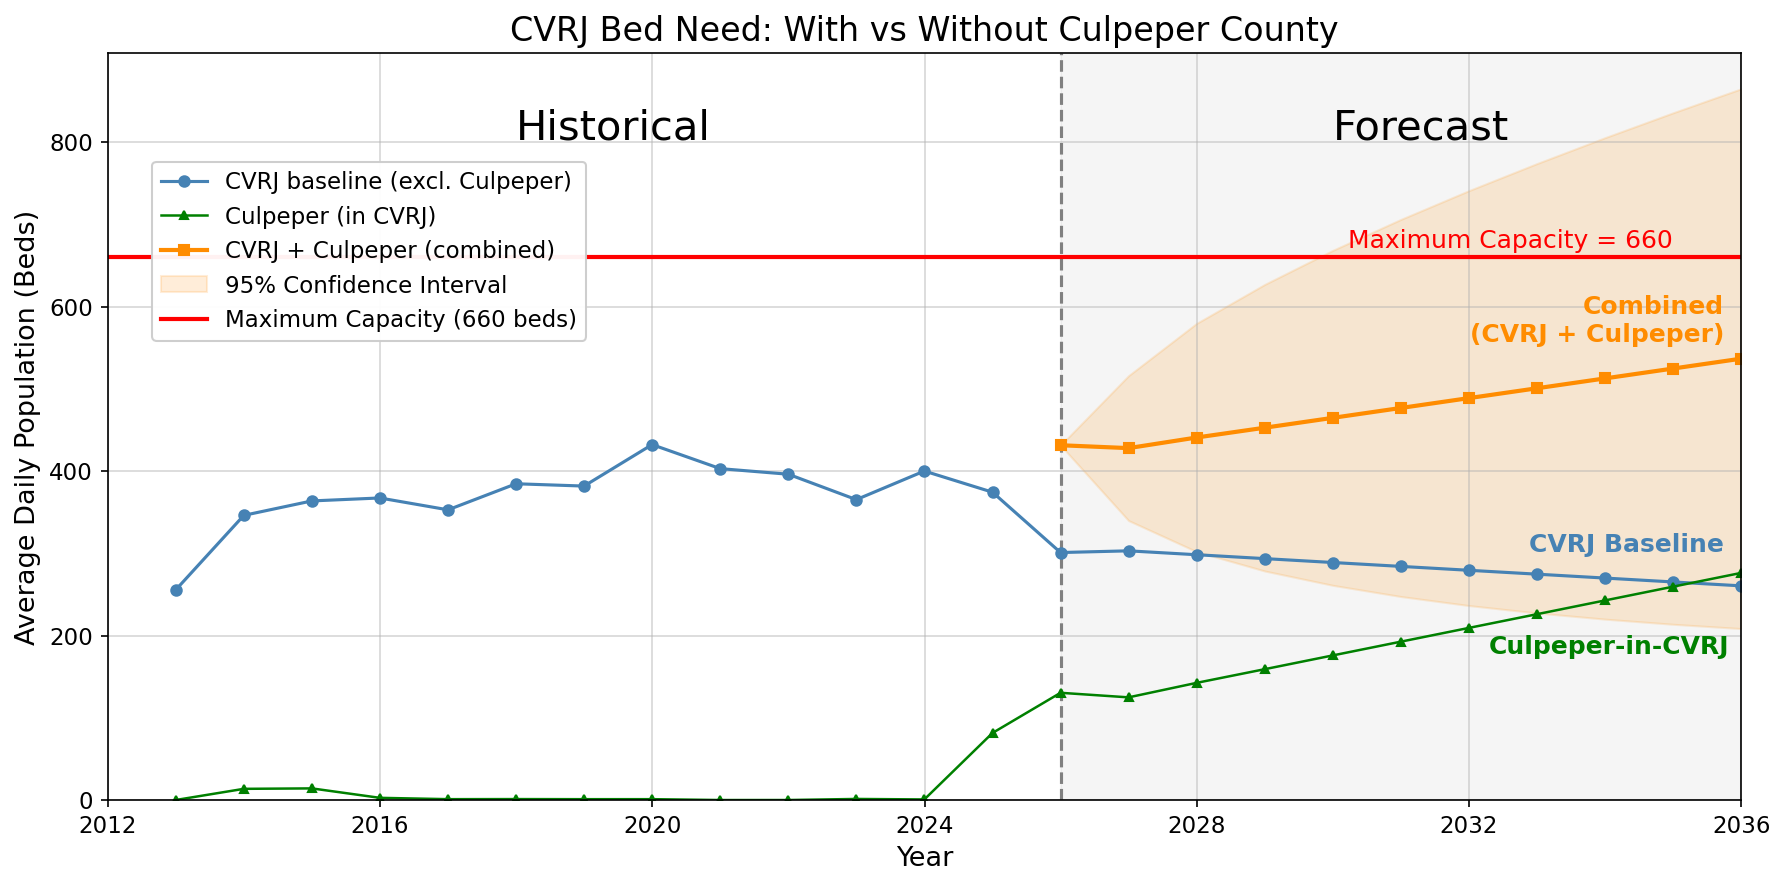
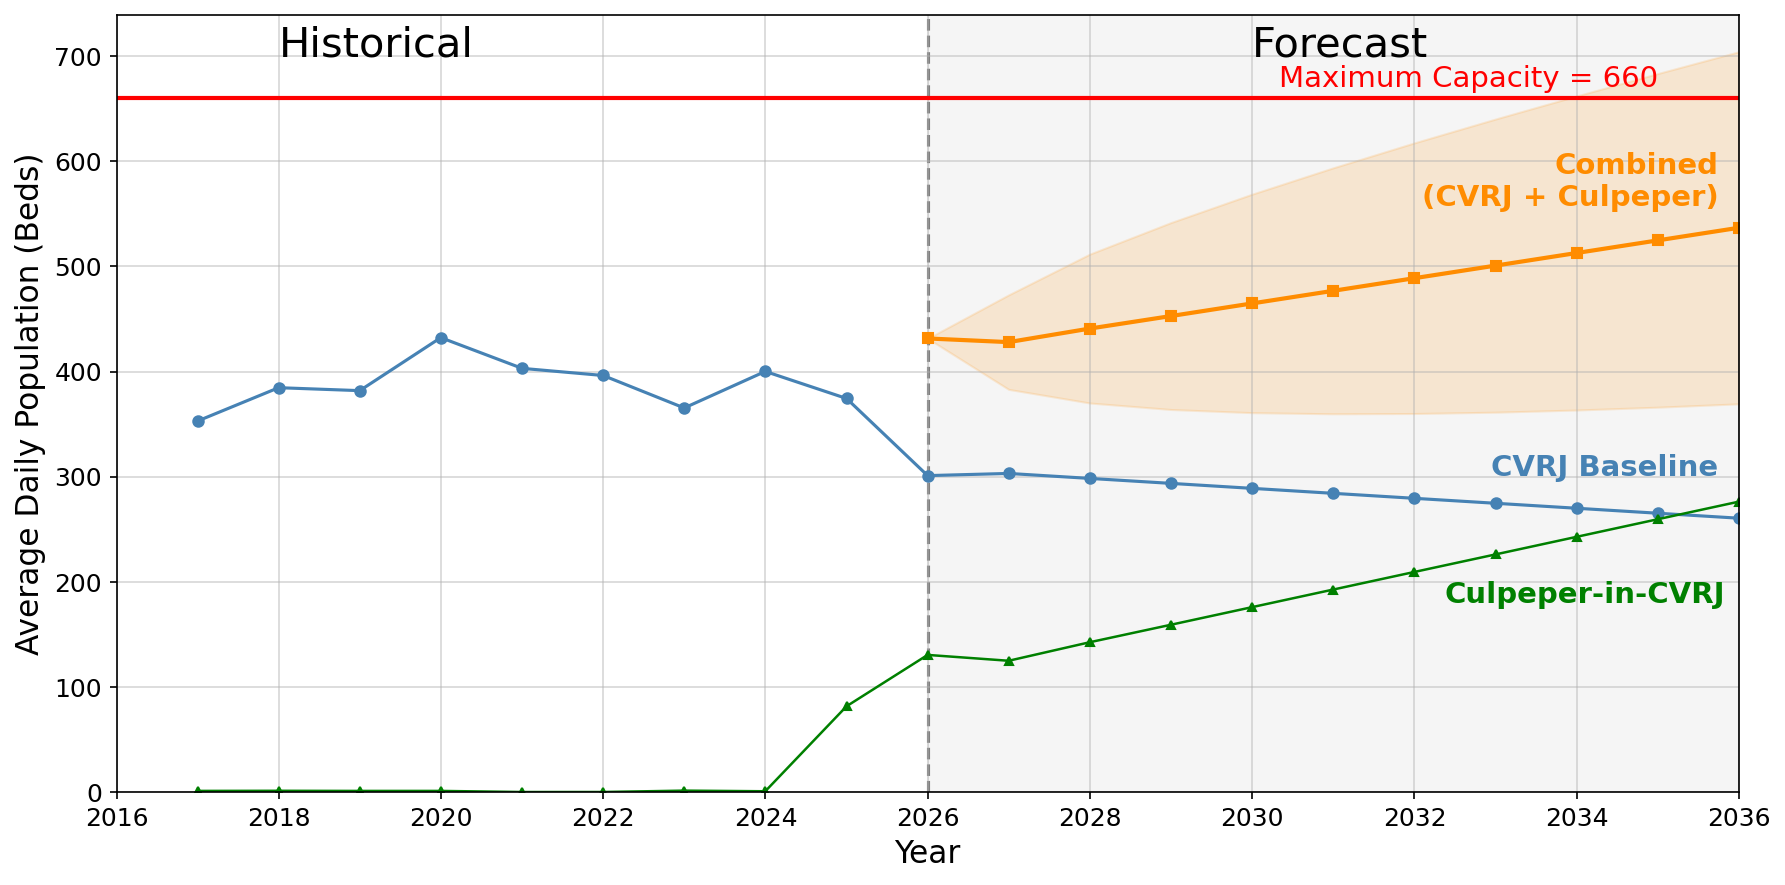
updates to jurisdiction code

diff --git a/scripts/08_capacity_forecast_by_jurisdiction.py b/scripts/08_capacity_forecast_by_jurisdiction.py
@@ -1,0 +1,260 @@
+"""
+Per-jurisdiction capacity forecasts for CVRJ.
+
+For each existing CVRJ member county (Fluvanna, Greene, Louisa, Madison, Orange),
+this script creates a plot with:
+- Blue: CVRJ baseline (excl. Culpeper) – same for all plots
+- Green: <County>-in-CVRJ (County Code from booking data)
+- Orange: forecasted combined load = <County>-in-CVRJ + Culpeper-in-CVRJ
+         with a one-sigma band around the orange forecast
+
+All plots share the same structure as the main capacity figure:
+- Historical vs Forecast split at 2026
+- Maximum capacity line at 660 beds
+- X-axis from 2016–2036
+"""
+
+import os
+import numpy as np
+import pandas as pd
+import matplotlib.pyplot as plt
+from statsmodels.tsa.statespace.sarimax import SARIMAX
+
+_SCRIPT_DIR = os.path.dirname(os.path.abspath(__file__))
+_ROOT = os.path.dirname(_SCRIPT_DIR)
+
+DATA_DIR = os.path.join(_ROOT, "data")
+RAW_DIR = os.path.join(DATA_DIR, "raw")
+PROC_DIR = os.path.join(DATA_DIR, "processed")
+OUT_DIR = os.path.join(_ROOT, "visuals")
+MAX_CAPACITY = 660
+FORECAST_RESULTS_CSV = os.path.join(DATA_DIR, "outputs", "forecast_results.csv")
+CVRJ_ADP_CSV = os.path.join(DATA_DIR, "outputs", "forecast_annual_cvrj_adp.csv")
+CULP_IN_CVRJ_CSV = os.path.join(DATA_DIR, "outputs", "forecast_annual_culpeper_in_cvrj.csv")
+
+FONT_LABEL = 13
+FONT_ANNO = 12
+Y_MAX = 725  # keep consistent with main capacity plot
+
+JURISDICTIONS = [
+    {"name": "Fluvanna", "code": 65},
+    {"name": "Greene", "code": 79},
+    {"name": "Louisa", "code": 109},
+    {"name": "Madison", "code": 113},
+    {"name": "Orange", "code": 137},
+]
+
+
+def compute_daily_census(df, max_year_cap=2030):
+    """Event-based daily census from Book/Release dates."""
+    df = df.dropna(subset=["Book Date"]).copy()
+    max_date = df["Release Date"].max()
+    if pd.isnull(max_date) or max_date.year > max_year_cap:
+        max_date = pd.Timestamp("2025-12-31")
+    min_date = df["Book Date"].min()
+    df["Release Date"] = df["Release Date"].fillna(max_date)
+    df["start_d"] = df["Book Date"].dt.normalize()
+    df["end_d"] = df["Release Date"].dt.normalize() + pd.Timedelta(days=1)
+    df = df[df["end_d"] > df["start_d"]]
+    enter = df[["start_d"]].rename(columns={"start_d": "Date"})
+    enter["Change"] = 1
+    leave = df[["end_d"]].rename(columns={"end_d": "Date"})
+    leave["Change"] = -1
+    evt = pd.concat([enter, leave], ignore_index=True)
+    date_range = pd.date_range(start=min_date.normalize(), end=max_date.normalize(), freq="D")
+    if evt.empty:
+        return pd.Series(0, index=date_range)
+    evt = evt.groupby("Date")["Change"].sum().sort_index()
+    return evt.reindex(date_range, fill_value=0).cumsum()
+
+
+def load_population_series(county_name):
+    """Load annual population series for a given county from its Population.csv."""
+    path = os.path.join(RAW_DIR, f"{county_name}Population.csv")
+    if not os.path.exists(path):
+        return pd.Series(dtype=float)
+    df = pd.read_csv(path, header=4)
+    row = df.iloc[1]
+    years = [str(y) for y in range(2012, 2025)]
+    pop_series = row[years].str.replace(",", "").astype(float)
+    pop_series.index = pd.to_datetime(pop_series.index, format="%Y") + pd.offsets.YearEnd()
+    return pop_series
+
+
+def fit_sarimax_with_se(adp, pop, steps=10, label=""):
+    """Fit SARIMAX(1,1,1) with exogenous population, return forecast mean and se."""
+    combined = pd.concat([adp, pop], axis=1).dropna()
+    combined.columns = ["ADP", "Pop"]
+    if combined.empty or len(combined) < 3:
+        print(f"Not enough data to model {label}")
+        return None, None
+    model = SARIMAX(
+        combined["ADP"],
+        exog=combined[["Pop"]],
+        order=(1, 1, 1),
+        seasonal_order=(0, 0, 0, 0),
+    )
+    results = model.fit(disp=False)
+    pop_vals = combined["Pop"].values
+    x = np.arange(len(pop_vals))
+    z = np.polyfit(x, pop_vals, 1)
+    future_x = np.arange(len(pop_vals), len(pop_vals) + steps)
+    future_pop = np.poly1d(z)(future_x)
+    fc = results.get_forecast(steps=steps, exog=future_pop.reshape(-1, 1))
+    return fc.predicted_mean, fc.se_mean
+
+
+def plot_jurisdiction(jur, cvrj_adp, cvrj_forecast, culp_hist_adp, culp_forecast,
+                     culp_se_series, years_future, df_cvrj):
+    name = jur["name"]
+    code = jur["code"]
+
+    # Historical J-in-CVRJ annual ADP
+    df_j = df_cvrj[df_cvrj["County Code"] == code].copy()
+    daily_j = compute_daily_census(df_j)
+    ann_j = daily_j.resample("YE").mean()
+
+    pop_j = load_population_series(name)
+    j_forecast, j_se = fit_sarimax_with_se(ann_j, pop_j, steps=len(years_future), label=f"{name} in CVRJ")
+    if j_forecast is None:
+        return
+
+    # Align historical to start at 2016
+    cutoff = pd.Timestamp("2016-01-01")
+    hist_years_full = cvrj_adp.index
+    hist_years = hist_years_full[hist_years_full >= cutoff]
+
+    ann_j = ann_j.reindex(hist_years).fillna(0.0)
+    culp_hist_adp = culp_hist_adp.reindex(hist_years).fillna(0.0)
+
+    all_years = list(hist_years) + list(years_future)
+
+    fig, ax = plt.subplots(figsize=(12, 6))
+
+    # CVRJ baseline full (blue)
+    all_cvrj_vals = np.concatenate([cvrj_adp.loc[hist_years].values, cvrj_forecast.values])
+    ax.plot(all_years, all_cvrj_vals, "o-", color="steelblue", linewidth=1.5, markersize=5)
+
+    # J-in-CVRJ (green)
+    all_j_vals = np.concatenate([ann_j.values, j_forecast.values])
+    ax.plot(all_years, all_j_vals, "^-", color="green", linewidth=1.2, markersize=4)
+
+    # Combined J + Culpeper on forecast side only
+    x_forecast = pd.Timestamp("2026-01-01")
+    last_hist_year = hist_years[-1]
+    last_hist_combined = ann_j.loc[last_hist_year] + culp_hist_adp.loc[last_hist_year]
+
+    years_future_trim = years_future[years_future >= x_forecast]
+    j_trim = j_forecast[years_future >= x_forecast]
+    culp_trim = culp_forecast[years_future >= x_forecast]
+    combined_vals = j_trim.values + culp_trim.values
+
+    years_combo = [last_hist_year] + list(years_future_trim)
+    vals_combo = [last_hist_combined] + list(combined_vals)
+    ax.plot(years_combo, vals_combo, "s-", color="darkorange", linewidth=2, markersize=5)
+
+    # One-sigma band for combined line (sqrt of J and Culpeper variances)
+    if j_se is not None and culp_se_series is not None:
+        mask_fc = years_future >= x_forecast
+        j_se_trim = j_se[mask_fc]
+        culp_se_trim = culp_se_series.loc[years_future[mask_fc]].values
+        combo_se = np.sqrt(j_se_trim**2 + culp_se_trim**2)
+        se_combo = np.concatenate([[0.0], combo_se])  # 0 at anchor point
+        upper = np.array(vals_combo) + se_combo
+        lower = np.array(vals_combo) - se_combo
+        ax.fill_between(years_combo, lower, upper, color="darkorange", alpha=0.15)
+
+    # Capacity line
+    ax.axhline(MAX_CAPACITY, color="red", linewidth=2)
+    ax.text(pd.Timestamp("2035-01-01"), MAX_CAPACITY + 5, "Maximum Capacity = 660",
+            color="red", fontsize=FONT_ANNO, ha="right", va="bottom")
+
+    # Forecast demarcation
+    ax.axvline(x_forecast, color="gray", linestyle="--", linewidth=1.5)
+    ymin, ymax = ax.get_ylim()
+    ax.axvspan(x_forecast, all_years[-1], alpha=0.08, color="gray")
+    ax.set_ylim(ymin, ymax)
+
+    ax.set_xlim(pd.Timestamp("2016-01-01"), pd.Timestamp("2036-01-01"))
+    ax.set_ylim(0, Y_MAX)
+    ax.set_xlabel("Year", fontsize=FONT_LABEL)
+    ax.set_ylabel("Average Daily Population (Beds)", fontsize=FONT_LABEL)
+    ax.tick_params(axis="both", labelsize=11)
+    ax.grid(True, alpha=0.5)
+
+    # Direct labels on lines near the end of the forecast
+    last_year = years_future[-1]
+    # CVRJ Baseline label (above blue line)
+    ax.text(last_year - pd.DateOffset(months=3),
+            all_cvrj_vals[-1] - 20,
+            "CVRJ Baseline",
+            color="steelblue",
+            fontsize=FONT_ANNO,
+            fontweight="bold",
+            ha="right",
+            va="top")
+    # County-in-CVRJ label (near green line)
+    ax.text(last_year - pd.DateOffset(months=3),
+            all_j_vals[-1] + 30,
+            f"{name}-in-CVRJ",
+            color="green",
+            fontsize=FONT_ANNO,
+            fontweight="bold",
+            ha="right",
+            va="top")
+    # Combined label (above orange line)
+    ax.text(last_year - pd.DateOffset(months=3),
+            vals_combo[-1] + 20,
+            f"Combined ({name} + Culpeper)",
+            color="darkorange",
+            fontsize=FONT_ANNO,
+            fontweight="bold",
+            ha="right",
+            va="bottom")
+
+    # Historical / Forecast labels at top of plot
+    y_text = MAX_CAPACITY + 35  # safely above red capacity line
+    mid_hist = pd.Timestamp("2018-01-01")
+    mid_fore = pd.Timestamp("2031-01-01")
+    ax.text(mid_hist, y_text, "Historical", ha="center", va="bottom",
+            fontsize=FONT_ANNO + 2, color="black")
+    ax.text(mid_fore, y_text, "Forecast", ha="center", va="bottom",
+            fontsize=FONT_ANNO + 2, color="black")
+
+    ax.set_title(f"{name} Bed Need", fontsize=18)
+
+    out_path = os.path.join(OUT_DIR, f"capacity_forecast_{name.lower()}.png")
+    plt.tight_layout()
+    plt.savefig(out_path, dpi=150, bbox_inches="tight")
+    print(f"Saved: {out_path}")
+    plt.close()
+
+
+def main():
+    # Load base series from existing outputs
+    cvrj_adp = pd.read_csv(CVRJ_ADP_CSV, index_col=0, parse_dates=True).squeeze()
+    cvrj_adp = cvrj_adp.loc[cvrj_adp.index <= pd.Timestamp("2025-12-31")]
+    culp_hist = pd.read_csv(CULP_IN_CVRJ_CSV, index_col=0, parse_dates=True).squeeze()
+    culp_hist = culp_hist.loc[culp_hist.index <= pd.Timestamp("2025-12-31")]
+    res_df = pd.read_csv(FORECAST_RESULTS_CSV, index_col=0, parse_dates=True)
+
+    years_future = res_df.index
+    cvrj_forecast = res_df["CVRJ_Baseline_NoCulpeper"]
+    culp_forecast = res_df["Culpeper_In_CVRJ"]
+    culp_se_series = res_df["Culpeper_SE"] if "Culpeper_SE" in res_df.columns else None
+
+    # Raw CVRJ booking data
+    cvrj_file = os.path.join(PROC_DIR, "cvrj_dataset_v2.csv")
+    df = pd.read_csv(cvrj_file)
+    df["Book Date"] = pd.to_datetime(df["Book Date"], errors="coerce")
+    df["Release Date"] = pd.to_datetime(df["Release Date"], errors="coerce")
+    df = df[df["Book Date"].dt.year >= 2012]
+
+    for jur in JURISDICTIONS:
+        plot_jurisdiction(jur, cvrj_adp, cvrj_forecast, culp_hist,
+                          culp_forecast, culp_se_series, years_future, df)
+
+
+if __name__ == "__main__":
+    main()
+

diff --git a/scripts/07_capacity_forecast_visualization.py b/scripts/07_capacity_forecast_visualization.py
@@ -20,10 +20,10 @@ FORECAST_ADP_CSV = os.path.join(_ROOT, "data", "outputs", "forecast_annual_cvrj_
 FORECAST_RESULTS_CSV = os.path.join(_ROOT, "data", "outputs", "forecast_results.csv")
 CULPEPER_IN_CVRJ_CSV = os.path.join(_ROOT, "data", "outputs", "forecast_annual_culpeper_in_cvrj.csv")
 FORECAST_START_YEAR = 2026
-FONT_TITLE = 16
-FONT_LABEL = 13
-FONT_LEGEND = 11
-FONT_ANNO = 12
+FONT_TITLE = 18
+FONT_LABEL = 15
+FONT_LEGEND = 12
+FONT_ANNO = 14
 
 
 def load_forecast_data():
@@ -57,9 +57,17 @@ def build_combined_historical(annual_cvrj_adp, annual_culpeper_in_cvrj):
 
 
 def plot_capacity(ax, annual_cvrj_adp, years_future, cvrj_forecast_vals, combined_forecast,
-                  annual_culpeper_in_cvrj, culpeper_forecast_vals, combined_se=None, draw_forecast_marker=True):
+                  annual_culpeper_in_cvrj, culpeper_forecast_vals, combined_se=None,
+                  draw_forecast_marker=True, show_legend=True):
     """Draw capacity plot: CVRJ baseline full; Culpeper-only full; CVRJ+Culpeper only on forecast side."""
-    hist_years = annual_cvrj_adp.index
+    # Trim historical portion to start at 2016
+    hist_years_full = annual_cvrj_adp.index
+    cutoff = pd.Timestamp('2016-01-01')
+    hist_years = hist_years_full[hist_years_full >= cutoff]
+    annual_cvrj_adp = annual_cvrj_adp.loc[hist_years]
+    if annual_culpeper_in_cvrj is not None and not annual_culpeper_in_cvrj.empty:
+        annual_culpeper_in_cvrj = annual_culpeper_in_cvrj.reindex(hist_years).fillna(0.0)
+
     all_years = list(hist_years) + list(years_future)
     x_forecast = pd.Timestamp(f'{FORECAST_START_YEAR}-01-01')
 
@@ -104,17 +112,15 @@ def plot_capacity(ax, annual_cvrj_adp, years_future, cvrj_forecast_vals, combine
             markersize=5, linewidth=2,
             label='CVRJ + Culpeper (combined)')
 
-    # Plot Uncertainty band (95% CI roughly corresponds to 1.96 * SE)
+    # One-sigma band around the combined forecast (optional)
     if combined_se is not None:
         se_trim = combined_se[years_future >= start_date]
-        se_combo_plot = [0.0] + list(se_trim) # 0 variance at the anchor point
-        upper_bound = np.array(vals_combo_plot) + 1.96 * np.array(se_combo_plot)
-        lower_bound = np.array(vals_combo_plot) - 1.96 * np.array(se_combo_plot)
-        
-        ax.fill_between(years_combo_plot, lower_bound, upper_bound, 
-                        color='darkorange', alpha=0.15, label='95% Confidence Interval')
+        se_combo_plot = [0.0] + list(se_trim)  # 0 variance at the anchor point
+        upper_bound = np.array(vals_combo_plot) + np.array(se_combo_plot)
+        lower_bound = np.array(vals_combo_plot) - np.array(se_combo_plot)
+        ax.fill_between(years_combo_plot, lower_bound, upper_bound,
+                        color='darkorange', alpha=0.15)
 
-    # Maximum capacity line
     # Maximum capacity line
     ax.axhline(y=MAX_CAPACITY, color='red', linestyle='-', linewidth=2,
             label='Maximum Capacity (660 beds)')
@@ -132,9 +138,9 @@ def plot_capacity(ax, annual_cvrj_adp, years_future, cvrj_forecast_vals, combine
         ymin, ymax = ax.get_ylim()
         ax.axvspan(x_forecast, all_years[-1], alpha=0.08, color='gray', zorder=0)
         ax.set_ylim(ymin, ymax)
-                # Get top of plot
-        ymin, ymax = ax.get_ylim()
-        y_arrow = ymax * 0.90  # slightly below top
+        # Place the \"Historical\" / \"Forecast\" labels well away from the capacity line
+        # so they don't overlap the red 660-bed line.
+        y_arrow = MAX_CAPACITY + 50  # clearly below the capacity line
 
         offset_forecast = pd.DateOffset(years=4)
         offset_historical = pd.DateOffset(years=8)
@@ -188,10 +194,12 @@ def plot_capacity(ax, annual_cvrj_adp, years_future, cvrj_forecast_vals, combine
                 
     ax.tick_params(axis='both', labelsize=FONT_LEGEND)
     ax.set_ylim(0, None)
-    ax.set_xlim(pd.Timestamp('2012-01-01'), pd.Timestamp('2036-01-01'))
+    ax.set_xlim(pd.Timestamp('2016-01-01'), pd.Timestamp('2036-01-01'))
     ax.grid(True, alpha=0.5)
-    # Legend lower so it doesn't cover the max capacity line
-    ax.legend(loc='upper left', bbox_to_anchor=(0.02, 0.87), fontsize=FONT_LEGEND, framealpha=0.95)
+    # Optional legend (can be disabled for cleaner main figure)
+    if show_legend:
+        ax.legend(loc='upper left', bbox_to_anchor=(0.02, 0.87),
+                  fontsize=FONT_LEGEND, framealpha=0.95)
 
 
 def main():
@@ -209,11 +217,11 @@ def main():
     combined_se = res_df['Combined_SE'].values if 'Combined_SE' in res_df.columns else None
     culpeper_forecast_vals = res_df['Culpeper_In_CVRJ'].values if 'Culpeper_In_CVRJ' in res_df.columns else None
 
-    # --- Figure 1: Capacity with vs without Culpeper + 660 line ---
+    # --- Figure 1: Capacity with vs without Culpeper + 660 line (main visual, no title/legend) ---
     fig, ax = plt.subplots(figsize=(12, 6))
     plot_capacity(ax, annual_cvrj_adp, years_future, cvrj_forecast_vals, combined_forecast,
-                  annual_culpeper_in_cvrj, culpeper_forecast_vals, combined_se=combined_se, draw_forecast_marker=True)
-    ax.set_title('CVRJ Bed Need: With vs Without Culpeper County', fontsize=FONT_TITLE)
+                  annual_culpeper_in_cvrj, culpeper_forecast_vals,
+                  combined_se=combined_se, draw_forecast_marker=True, show_legend=False)
     plt.tight_layout()
     out1 = os.path.join(_ROOT, 'visuals', 'capacity_forecast_with_and_without_culpeper.png')
     plt.savefig(out1, dpi=150, bbox_inches='tight')
